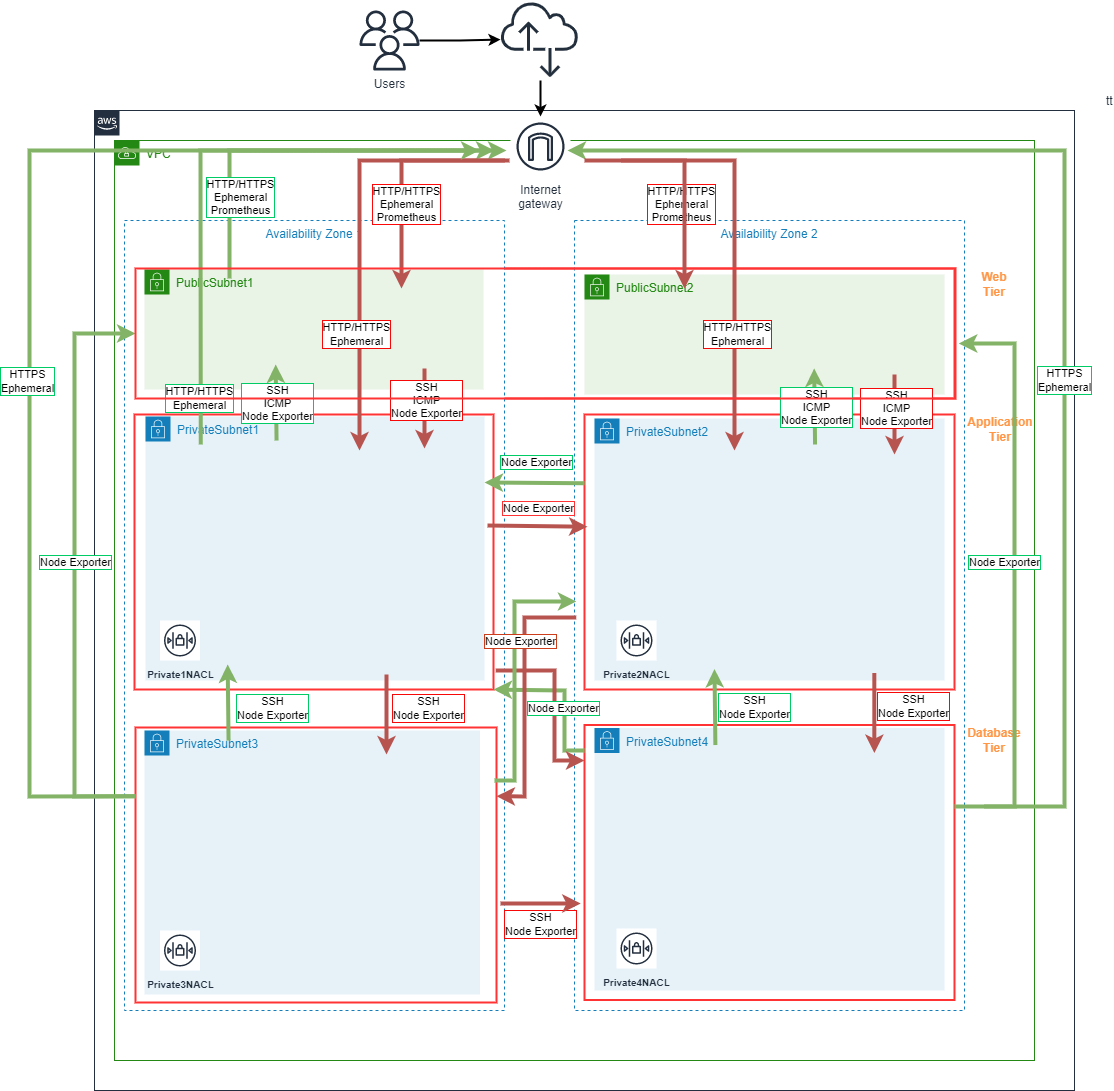
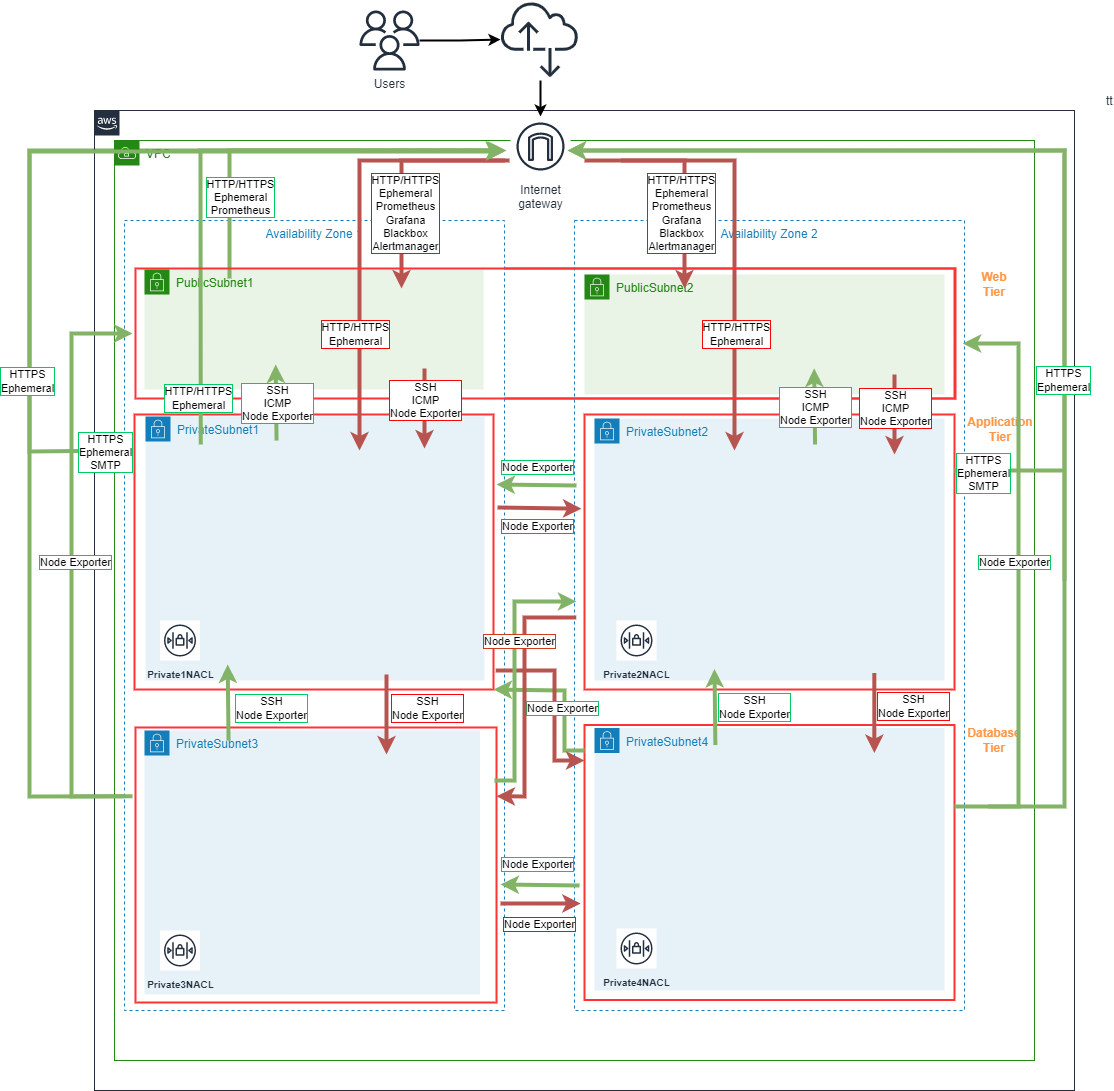
Update Ports and SG Group

diff --git a/aws-iac/awsproject.md b/aws-iac/awsproject.md
@@ -7,8 +7,8 @@ Definition IAC Project
 * 01 - [SMART Objectives](#03-SMART-Objectives)
 * 02 - [Seusag](#04-Seusag)
 * 03 - [Port Matrix](#03-Port-Matrix)
-* 04 - [Dependencies](#04-Dependencies)
-
+* 04 - [Security Groups](#05-Security-Groups)
+* 05 - [Dependencies](#05-Dependencies)
 
 ## 01 SMART Objectives
 
@@ -76,7 +76,7 @@ And by implementing its user data in CloudFormation, I will integrate this monit
 Here is a diagram showing the port matrix for the IaC part of the project.
 ![grafana](images/AWSInfraPort.png)
 
-Table of the Port Matrix
+**Table of the Port Matrix**
 
 | Port | Protocol | Source | DestinationCidrBlock | Description | 
 | ---     | --- | ---  | --- | --- |
@@ -93,8 +93,13 @@ Table of the Port Matrix
 | 9100 | TCP | VPC | VPC | Needed for Prometeo Node exporter |
 | 9115 | TCP | Internet | Subnet2 | Needed for Blackbox Dashboard |
 
+## 04 Security Groups
 
-## 04 Dependencies
+Here is a diagram showing the Security Groups for the IaC part of the project.
+![grafana](images/AWSInfraSG.png)
+
+
+## 05 Dependencies
 
 ### IaC Cross Stack Dependencies
 

diff --git a/aws-iac/Cheat_Sheet_Cloud_Formation.md b/aws-iac/Cheat_Sheet_Cloud_Formation.md
@@ -335,6 +335,31 @@ Error "Circular dependency between resources:
 ```
 ----
 
+## Array
+
+With an array you can create multiple resources with the same properties
+You use it by adding a "-" in front of the resource
+
+**Example of an Array**
+``` 
+
+      CidrIp:
+        - !ImportValue 
+            Fn::Sub: '${VPCModule}-VpcCIDR'
+        - !ImportValue 
+            Fn::Sub: '${VPCModule}-VpcCIDR2'
+``` 
+
+**Example without Array**
+``` 
+
+      CidrIp:
+        !ImportValue 
+          Fn::Sub: '${VPCModule}-VpcCIDR'
+``` 
+
+---
+
 ## Nested stacks 
 Reusing common template patterns using nested stacks is efficient and considered a best practice in CloudFormation
 
